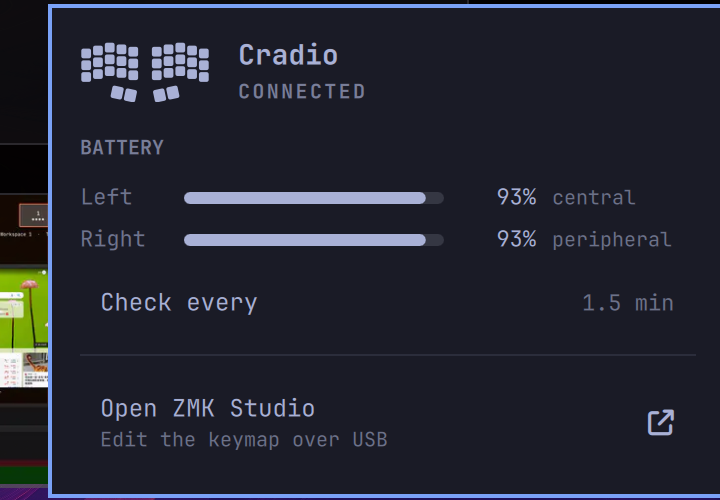
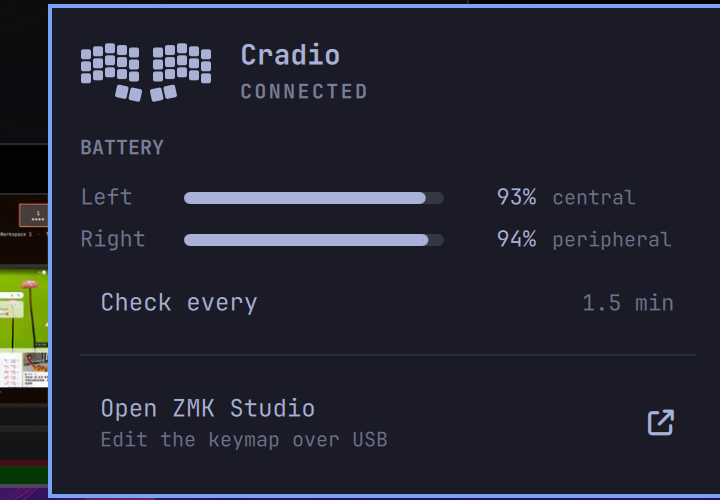
Tuck the thumb keys under the inner columns and toward the centre

Changed region(s): [[0.0917, 0.09, 0.5194, 0.21], [0.7028, 0.45, 0.7333, 0.51]]

diff --git a/SplitKeyboardIcon.qml b/SplitKeyboardIcon.qml
@@ -12,7 +12,7 @@ Item {
   property color color: "#ffffff"
 
   // Stagger + three rows + gap + a tilted two-key thumb row.
-  readonly property real keyUnit: iconSize / 5.1
+  readonly property real keyUnit: iconSize / 5.0
   readonly property real halfGap: keyUnit * 1.0
   implicitWidth: Math.ceil(keyUnit * 10 + halfGap)
   implicitHeight: iconSize
@@ -45,7 +45,9 @@ Item {
       var maxStagger = 0.5 * key
       var thumbTilt = 12 * Math.PI / 180                // thumb rows angle outward like a real split
       var thumb = key * 1.15                            // thumb keys are a touch larger than the grid
-      var totalH = maxStagger + key * rows + key * 0.1 + thumb + key * 0.4
+      var innerStagger = stagger[cols - 1] * key           // the thumb row hangs off the inner column
+      var thumbInset = key * 0.35                           // and is pulled toward the centre gap
+      var totalH = innerStagger + key * rows + key * 0.05 + thumb + key * 0.4
       var x0 = (width - totalW) / 2
       var y0 = (height - totalH) / 2
       // A one-pixel gutter separates the columns; the keys within a column
@@ -67,8 +69,8 @@ Item {
         // Thumb key sits under the two inner columns, pushed toward the middle.
         // Two thumb keys under the inner columns, the row rotated about its
         // outer end so the inner key sits lower, as on a Sweep.
-        var ty = y0 + maxStagger + key * rows + key * 0.1
-        var pivotX = half === 0 ? hx + key * cols - thumb * 2 : hx + thumb * 2
+        var ty = y0 + innerStagger + key * rows + key * 0.05
+        var pivotX = half === 0 ? hx + key * cols - thumb * 2 + thumbInset : hx + thumb * 2 - thumbInset
         ctx.save()
         ctx.translate(pivotX, ty)
         ctx.rotate(half === 0 ? thumbTilt : -thumbTilt)
